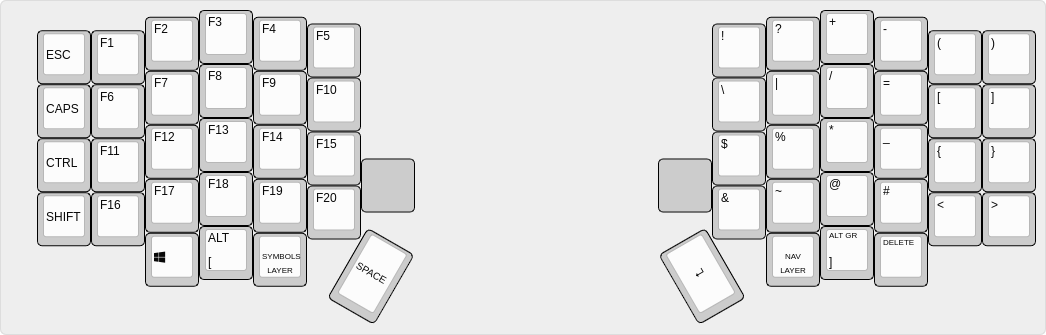
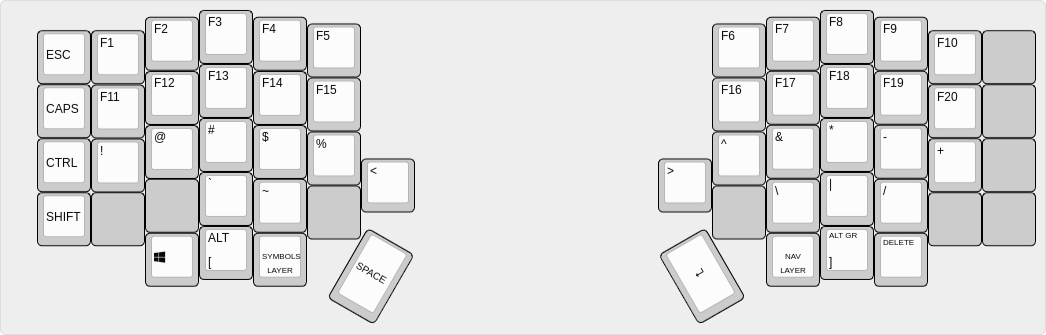
Update Symbols Layer
Most symbols now live on the home row.

diff --git a/keymap.c b/keymap.c
@@ -40,25 +40,25 @@ const uint16_t PROGMEM keymaps[][MATRIX_ROWS][MATRIX_COLS] = {
   ),
 
 /* SYMBOLS/F-KEYS
- * ,------------------------------------------.                    ,-----------------------------------.
- * | ESC   |  F1  |  F2  |  F3  |  F4  |  F5  |                    |  !  |  ?  |  +  |  -  |  (  |  )  |
- * |-------+------+------+------+------+------|                    |-----+-----+-----+-----+-----+-----|
- * |CAPSLCK|  F6  |  F7  |  F8  |  F9  | F10  |                    |  \  |  |  |  /  |  =  |  [  |  ]  |
- * |-------+------+------+------+------+------|                    |-----+-----+-----+-----+-----+-----|
- * |LCTRL  | F11  | F12  | F13  | F14  | F15  |-------.    ,-------|  $  |  %  |  *  |  _  |  {  |  }  |
- * |-------+------+------+------+------+------|       |    |       |-----+-----+-----+-----+-----+-----|
- * |LSHIFT | F16  | F17  | F18  | F19  | F20  |-------|    |-------|  &  |  ~  |  @  |  #  |  <  |  >  |
- * `------------------------------------------/       /    \       \-----------------------------------'
- *                   | LGUI | LALT |SYMBOLS| / Space /      \ Enter \  |NAV | RALT | DEL |
- *                   |      | ([)  |       |/       /        \       \ |    | (])  |     |
- *                   `-----------------------------'          '-------''-----------------'
+ * ,-------------------------------------.                    ,-----------------------------------.
+ * | ESC   |  F1 |  F2 |  F3 |  F4 |  F5 |                    | F6  | F7  | F8  | F9  | F10 |     |
+ * |-------+-----+-----+-----+-----+-----|                    |-----+-----+-----+-----+-----+-----|
+ * |CAPSLCK| F11 | F12 | F13 | F14 | F15 |                    | F16 | F17 | F18 | F19 | F20 |     |
+ * |-------+-----+-----+-----+-----+-----|                    |-----+-----+-----+-----+-----+-----|
+ * |LCTRL  |  !  |  @  |  #  |  $  |  %  |-------.    ,-------|  ^  |  &  |  *  |  -  |  +  |     |
+ * |-------+-----+-----+-----+-----+-----|   <   |    |   >   |-----+-----+-----+-----+-----+-----|
+ * |LSHIFT |     |     |  `  |  ~  |     |-------|    |-------|     |  \  |  |  |  /  |     |     |
+ * `-------------------------------------/       /    \       \-----------------------------------'
+ *              | LGUI | LALT |SYMBOLS| / Space /      \ Enter \  |NAV | RALT | DEL |
+ *              |      | ([)  |       |/       /        \       \ |    | (])  |     |
+ *              `-----------------------------'          '-------''-----------------'
  */
 
   [_SYMBOLS] = LAYOUT(
-    KC_ESC,   KC_F1,   KC_F2,   KC_F3,   KC_F4,   KC_F5,                      KC_EXLM,   KC_QUES,   KC_PLUS,   KC_PMNS,   KC_LPRN,   KC_RPRN,
-    KC_CAPS,  KC_F6,   KC_F7,   KC_F8,   KC_F9,   KC_F10,                     UK_BSLS,   UK_PIPE,   KC_PSLS,   KC_PEQL,   KC_LBRC,   KC_RBRC,
-    KC_LCTL,  KC_F11,  KC_F12,  KC_F13,  KC_F14,  KC_F15,                     KC_DLR,    KC_PERC,   KC_ASTR,   KC_UNDS,   KC_LCBR,   KC_RCBR,
-    KC_LSFT,  KC_F16,  KC_F17,  KC_F18,  KC_F19,  KC_F20,   KC_NO,   KC_NO,   KC_AMPR,   UK_TILD,   UK_AT,     UK_HASH,     KC_LT,     KC_GT,
+    KC_ESC,   KC_F1,   KC_F2,   KC_F3,   KC_F4,   KC_F5,                      KC_F6,   KC_F7,   KC_F8,   KC_F9,   KC_F10,   KC_NO,
+    KC_CAPS,  KC_F11,  KC_F12,  KC_F13,  KC_F14,  KC_F15,                     KC_F16,  KC_F17,  KC_F18,  KC_F19,  KC_F20,   KC_NO,
+    KC_LCTL,  KC_EXLM, UK_AT,   UK_HASH, KC_DLR,  KC_PERC,                    KC_CIRC, KC_AMPR, KC_ASTR, KC_MINS, KC_PLUS,  KC_NO,
+    KC_LSFT,  KC_NO,   KC_NO,   KC_GRV,  UK_TILD, KC_NO,   KC_LT,   KC_GT,    KC_NO,   UK_BSLS, UK_PIPE, KC_SLSH, KC_NO,    KC_NO,
                           KC_TRNS,   KC_TRNS,   KC_TRNS,   KC_TRNS, KC_TRNS,   KC_TRNS,   KC_TRNS,   KC_DEL
   ),
 
